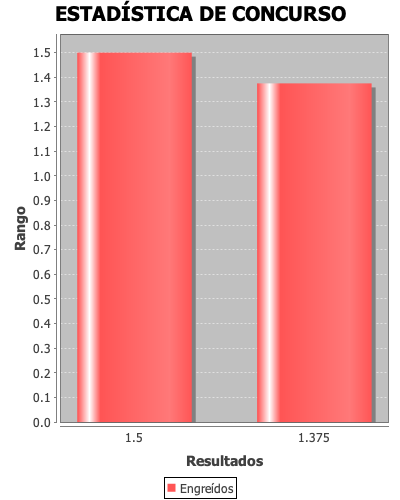
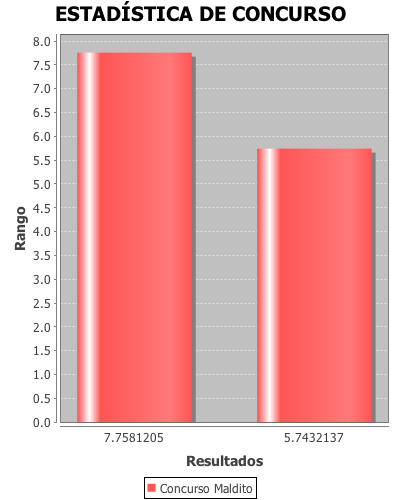
Reparecion de detalles minimos

diff --git a/CYSCDP_RANKINGS/src/swing/Graficas.java b/CYSCDP_RANKINGS/src/swing/Graficas.java
@@ -184,7 +184,7 @@ public class Graficas extends javax.swing.JInternalFrame {
 
         jLabel10.setText("No. Programas:");
 
-        CBNumProg.setModel(new javax.swing.DefaultComboBoxModel<>(new String[] { "10", "11", "12", "13", "14", "15", "16", "17", "18", "19", "20", "21", "22", "23", "24", "25", "26", "27", "28", "29", "30", "31", "32", "33", "34", "35", "36", "37", "38", "39", "40", "41", "42", "43", "44", "45", "46", "47", "48", "49", "50" }));
+        CBNumProg.setModel(new javax.swing.DefaultComboBoxModel<>(new String[] { "1", "2", "3", "4", "5", "6", "7", "8", "9", "10", "11", "12", "13", "14", "15", "16", "17", "18", "19", "20", "21", "22", "23", "24", "25", "26", "27", "28", "29", "30", "31", "32", "33", "34", "35", "36", "37", "38", "39", "40", "41", "42", "43", "44", "45", "46", "47", "48", "49", "50" }));
 
         jButton4.setIcon(new javax.swing.ImageIcon(getClass().getResource("/swing/images/16 (Search).jpg"))); // NOI18N
         jButton4.setText("Buscar");
@@ -559,27 +559,69 @@ public class Graficas extends javax.swing.JInternalFrame {
                 int IDequipo1 = mConexion.ConsultarIDEquipos(CBeq1.getSelectedItem().toString());
                 int IDequipo2 = mConexion.ConsultarIDEquipos(CBeq2.getSelectedItem().toString());
                 int Id = mConexion.ConsultarIDConcursos((String) CBcon.getSelectedItem());
-                int horas = 0, minutos = 0, horasT = 0, complejidad = 0;
+                int horasA1 = 0, minutosA1 = 0, horasTA1 = 0, complejidad = 0;
+                int horasB1 = 0, minutosB1 = 0, horasTB1 = 0;
+                int horasM1 = 0, minutosM1 = 0, horasTM1 = 0;
                 String equipo = "";
-                int horas2 = 0, minutos2 = 0, horasT2 = 0, complejidad2 = 0;
+                int horasA2 = 0, minutosA2 = 0, horasTA2 = 0, complejidad2 = 0;
+                int horasB2 = 0, minutosB2 = 0, horasTB2 = 0;
+                int horasM2 = 0, minutosM2 = 0, horasTM2 = 0;
+                
                 String equipo2 = "";
                 ArrayList mListaPuntajes = mConexion.ConsultarIDPuntajes2(Id, IDequipo1);
-                for (int i = 0; i < mListaPuntajes.size(); i++) {
-                    horas = Integer.parseInt(mListaPuntajes.get(i).toString().substring(0, 2));
-                    minutos = Integer.parseInt(mListaPuntajes.get(i).toString().substring(3, 5));
-                    horasT = horasT + (horas * 60) + minutos;
+                for (int i = 0; i < mListaPuntajes.size(); i++) {                  
                     complejidad = Integer.parseInt(mListaPuntajes.get(i).toString().substring(8, 9));
-                    equipo = mListaPuntajes.get(i).toString().substring(9);
-                    Datos.setValue(horasT, equipo, String.valueOf(complejidad));
+                    switch(complejidad) {
+                        case 1:
+                            horasB1 = Integer.parseInt(mListaPuntajes.get(i).toString().substring(0, 2));
+                            minutosB1 = Integer.parseInt(mListaPuntajes.get(i).toString().substring(3, 5));
+                            horasTB1 = horasTB1 + (horasB1 * 60) + minutosB1;
+                            equipo = mListaPuntajes.get(i).toString().substring(9);
+                            Datos.setValue(horasTB1, equipo, String.valueOf(complejidad));
+                            break;
+                        case 2:
+                            horasM1 = Integer.parseInt(mListaPuntajes.get(i).toString().substring(0, 2));
+                            minutosM1 = Integer.parseInt(mListaPuntajes.get(i).toString().substring(3, 5));
+                            horasTM1 = horasTM1 + (horasM1 * 60) + minutosM1;
+                            equipo = mListaPuntajes.get(i).toString().substring(9);
+                            Datos.setValue(horasTM1, equipo, String.valueOf(complejidad));
+                            break;
+                        case 3:
+                            horasA1 = Integer.parseInt(mListaPuntajes.get(i).toString().substring(0, 2));
+                            minutosA1 = Integer.parseInt(mListaPuntajes.get(i).toString().substring(3, 5));
+                            horasTA1 = horasTA1 + (horasA1 * 60) + minutosA1;
+                            equipo = mListaPuntajes.get(i).toString().substring(9);
+                            Datos.setValue(horasTA1, equipo, String.valueOf(complejidad));
+                            break;
+                    }
+                    
                 }
                 ArrayList mListaPuntajes2 = mConexion.ConsultarIDPuntajes2(Id, IDequipo2);
                 for (int i = 0; i < mListaPuntajes2.size(); i++) {
-                    horas2 = Integer.parseInt(mListaPuntajes2.get(i).toString().substring(0, 2));
-                    minutos2 = Integer.parseInt(mListaPuntajes2.get(i).toString().substring(3, 5));
-                    horasT2 = horasT2 + (horas2 * 60) + minutos2;
                     complejidad2 = Integer.parseInt(mListaPuntajes2.get(i).toString().substring(8, 9));
-                    equipo2 = mListaPuntajes2.get(i).toString().substring(9);
-                    Datos.setValue(horasT2, equipo2, String.valueOf(complejidad2));
+                    switch(complejidad2) {
+                        case 1:
+                            horasB2 = Integer.parseInt(mListaPuntajes2.get(i).toString().substring(0, 2));
+                            minutosB2 = Integer.parseInt(mListaPuntajes2.get(i).toString().substring(3, 5));
+                            horasTB2 = horasTB2 + (horasB2 * 60) + minutosB2;
+                            equipo2 = mListaPuntajes2.get(i).toString().substring(9);
+                            Datos.setValue(horasTB2, equipo2, String.valueOf(complejidad2));
+                            break;
+                        case 2:
+                            horasM2 = Integer.parseInt(mListaPuntajes2.get(i).toString().substring(0, 2));
+                            minutosM2 = Integer.parseInt(mListaPuntajes2.get(i).toString().substring(3, 5));
+                            horasTM2 = horasTM2 + (horasM2 * 60) + minutosM2;
+                            equipo2 = mListaPuntajes2.get(i).toString().substring(9);
+                            Datos.setValue(horasTM2, equipo2, String.valueOf(complejidad2));
+                            break;
+                        case 3:
+                            horasA2 = Integer.parseInt(mListaPuntajes2.get(i).toString().substring(0, 2));
+                            minutosA2 = Integer.parseInt(mListaPuntajes2.get(i).toString().substring(3, 5));
+                            horasTA2 = horasTA2 + (horasA2 * 60) + minutosA2;
+                            equipo2 = mListaPuntajes2.get(i).toString().substring(9);
+                            Datos.setValue(horasTA2, equipo2, String.valueOf(complejidad2));
+                            break;
+                    }
                 }
             }
             LBL_Mensajero2.setText("");
@@ -880,8 +922,8 @@ public class Graficas extends javax.swing.JInternalFrame {
                         } catch (Exception e) {
 
                         }
-                        //String urlImagen = "/Users/eduardogarcia/Documents/CYSCDP/CYSCDP_RANKINGS/Gráfico.png"; Chendo
-                        String urlImagen = "/Users/kevincruz/DAS/CYSCDP/CYSCDP_RANKINGS/Gráfico.png";
+                        String urlImagen = "Gráfico.png"; //Chendo
+                        //String urlImagen = "/Users/kevincruz/DAS/CYSCDP/CYSCDP_RANKINGS/Gráfico.png";
                         //Image img = new ImageIcon(urlImagen).getImage();
                         ImageIcon img = new ImageIcon(urlImagen);
                         //Ajustamos la imagen
